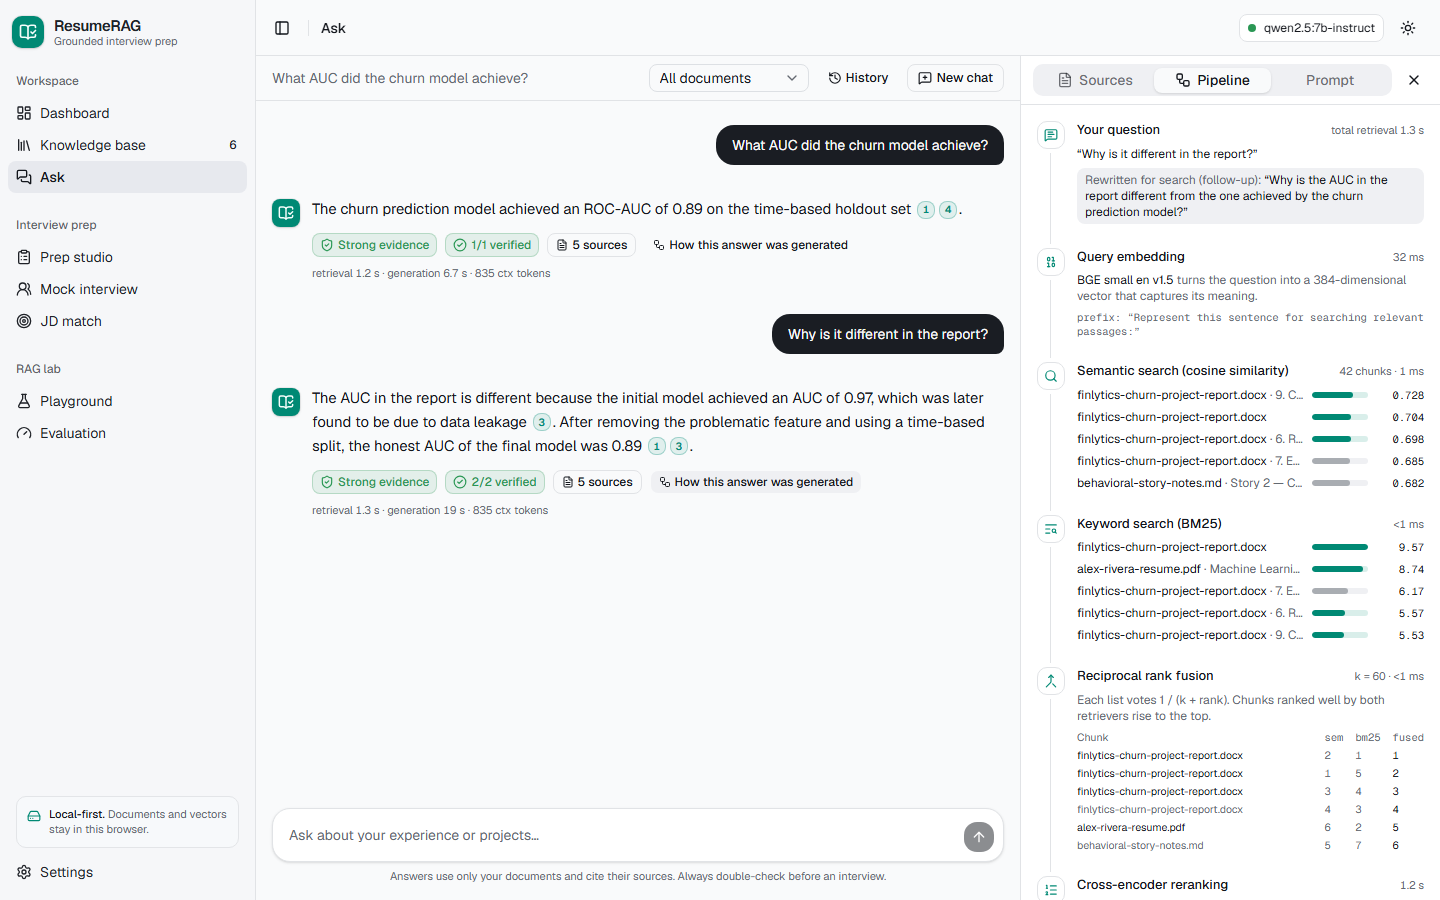
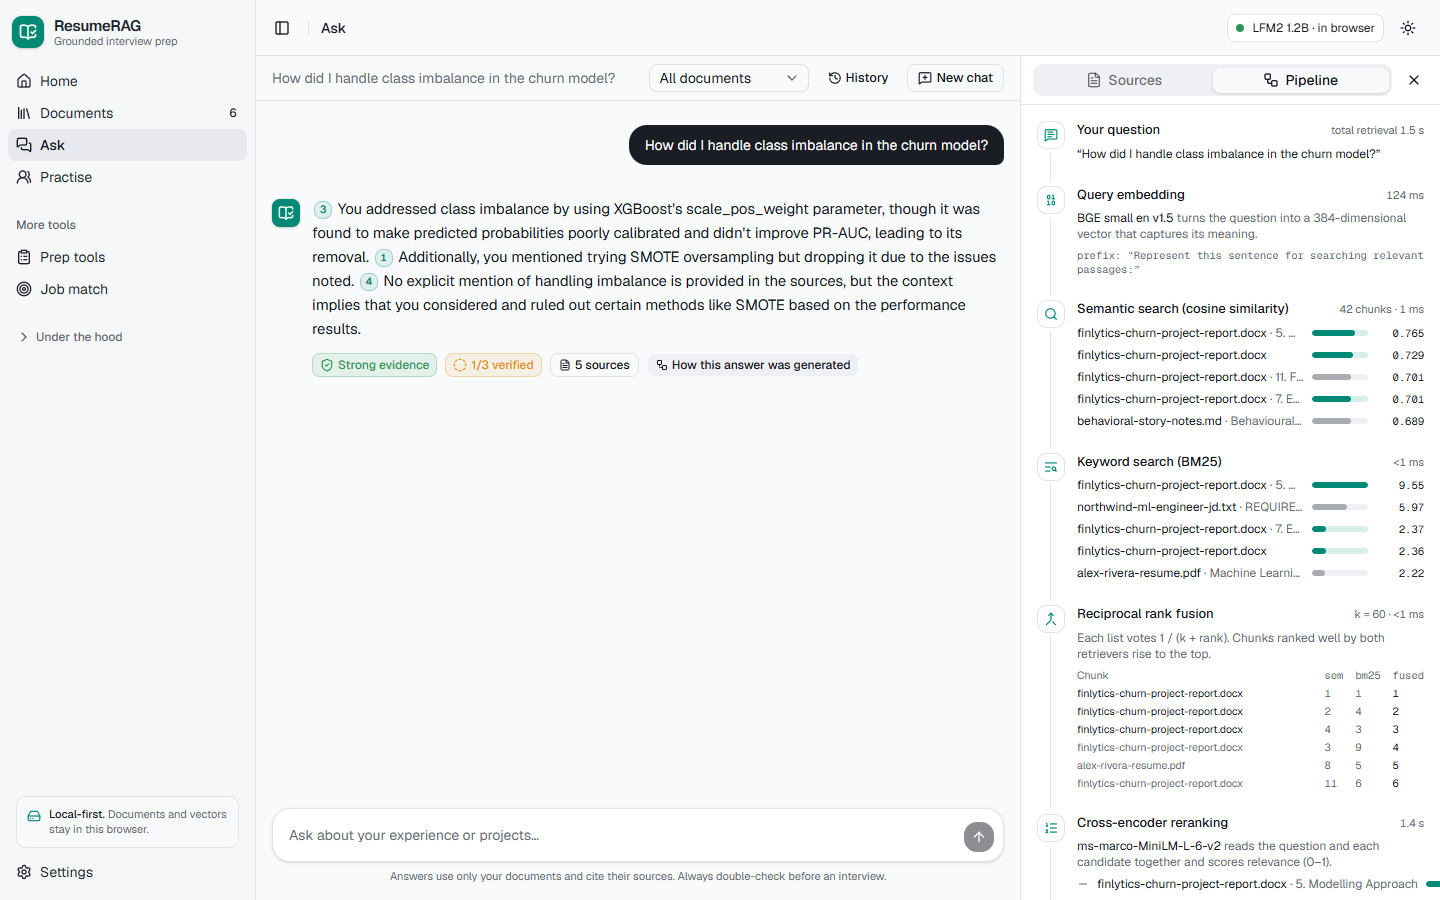
Say why a workflow fell back, and decode JSON greedily in the browser
A mock-interview question read "Template question (no language model
connected)" while the status badge said the in-browser model was
connected. The real cause was different: the model returned JSON the
schema rejected, so the workflow used its template. fallbackReason() now
distinguishes an unreachable model, unusable JSON and a failed request,
and the mock and question generators report that instead.

The cause is now less likely too: in-browser requests that ask for JSON
decode greedily regardless of temperature, since sampling is the main
source of broken structure in a 1.2B model.

diff --git a/src/lib/workflows/questions.ts b/src/lib/workflows/questions.ts
@@ -6,7 +6,7 @@ import type { AppSettings } from "@/lib/client/settings";
 import type { Difficulty, QuestionCategory } from "@/lib/db/records";
 import type { BuiltContext } from "@/lib/rag/generation/context";
 import { GROUNDING_RULES } from "@/lib/rag/generation/prompts";
-import { CANDIDATE_FILTER, gatherEvidence, runLlmJson, validSources } from "./common";
+import { CANDIDATE_FILTER, fallbackReason, gatherEvidence, runLlmJson, validSources } from "./common";
 
 export const CATEGORY_INFO: Record<QuestionCategory, { label: string; description: string; queries: string[] }> = {
   recruiter: {
@@ -112,7 +112,7 @@ Return JSON: {"questions":[{"question":"...","whyAsked":"...","sources":[1]}]}`,
   );
 
   if (!outcome.data) {
-    return { questions: fallbackQuestions(input, context), context, error: outcome.error };
+    return { questions: fallbackQuestions(input, context, fallbackReason(outcome.error)), context, error: outcome.error };
   }
   return {
     context,
@@ -129,6 +129,7 @@ Return JSON: {"questions":[{"question":"...","whyAsked":"...","sources":[1]}]}`,
 function fallbackQuestions(
   input: { category: QuestionCategory; difficulty: Difficulty; count: number },
   context: BuiltContext,
+  reason: string,
 ): GeneratedQuestion[] {
   const templates = [
     (h: string) => `Tell me about "${h}". What was your role?`,
@@ -140,7 +141,7 @@ function fallbackQuestions(
     const heading = s.result.chunk.headingPath.at(-1) ?? s.result.document.name;
     return {
       question: templates[i % templates.length](heading),
-      whyAsked: "Generated from a template because no language model is connected.",
+      whyAsked: `Generated from a template — ${reason}.`,
       sources: [s.n],
       category: input.category,
       difficulty: input.difficulty,

diff --git a/tests/unit/llm.test.ts b/tests/unit/llm.test.ts
@@ -14,6 +14,7 @@ import {
 } from "@/lib/llm/client";
 import { migrateSettings } from "@/lib/client/settings";
 import { createAsyncQueue } from "@/lib/llm/stream";
+import { fallbackReason } from "@/lib/workflows/common";
 import { isModelAllowed, modelAllowlist } from "@/lib/llm/model-policy";
 import { chatRequestSchema } from "@/lib/llm/schema";
 import { readNdjson, readSse, withStallTimeout } from "@/lib/llm/stream";
@@ -273,6 +274,18 @@ describe("automatic connection mode", () => {
     );
     await expect(resolveMode({ mode: "in-browser" })).resolves.toBe("in-browser");
     await expect(resolveMode({ mode: "browser-ollama" })).resolves.toBe("browser-ollama");
+  });
+});
+
+describe("fallback wording", () => {
+  it("distinguishes a missing model from a model that answered badly", () => {
+    expect(fallbackReason("No LLM provider is configured on the server (LLM_PROVIDER=none).")).toBe("no language model was reachable");
+    expect(fallbackReason("Cannot reach Ollama at http://localhost:11434.")).toBe("no language model was reachable");
+    expect(fallbackReason("Model output did not match the expected format (scores.evidence)")).toBe(
+      "the language model did not return usable JSON",
+    );
+    expect(fallbackReason("The language model request failed.")).toBe("the language model could not complete the request");
+    expect(fallbackReason(undefined)).toBe("generated without a language model");
   });
 });
 

diff --git a/src/lib/workflows/common.ts b/src/lib/workflows/common.ts
@@ -94,6 +94,20 @@ export async function runLlmJson<T extends z.ZodType>(
   }
 }
 
+/**
+ * Why a workflow fell back to its deterministic output, in words a user can act on. A missing
+ * model and a model that answered badly are different problems, and the UI should not claim the
+ * first when it hit the second.
+ */
+export function fallbackReason(error?: string): string {
+  if (!error) return "generated without a language model";
+  if (/no llm provider|not reachable|cannot reach|requires an access code|only runs in the browser/i.test(error)) {
+    return "no language model was reachable";
+  }
+  if (/expected format|no json|not valid|json/i.test(error)) return "the language model did not return usable JSON";
+  return "the language model could not complete the request";
+}
+
 /** Each document's title: its first top-level heading, or its parsed title. */
 export async function loadDocTitles(docIds: string[]): Promise<Record<string, string>> {
   const contents = await getDb().contents.bulkGet([...new Set(docIds)]);

diff --git a/src/lib/workflows/mock.ts b/src/lib/workflows/mock.ts
@@ -12,7 +12,7 @@ import type { Difficulty, MockTurn, QuestionCategory } from "@/lib/db/records";
 import { judgeSupport, lexicalSupport, splitAnswerSentences } from "@/lib/rag/generation/citations";
 import type { BuiltContext } from "@/lib/rag/generation/context";
 import { GROUNDING_RULES } from "@/lib/rag/generation/prompts";
-import { CANDIDATE_FILTER, gatherEvidence, runLlmJson, validSources } from "./common";
+import { CANDIDATE_FILTER, fallbackReason, gatherEvidence, runLlmJson, validSources } from "./common";
 
 export type MockFocus = "profile" | "technical" | "behavioral" | "project";
 
@@ -117,7 +117,7 @@ Ask the next interview question. It must be specific to the candidate's document
       category: CATEGORY_BY_FOCUS[config.focus],
       evidenceChunkIds: source ? [source.result.chunk.id] : [],
     },
-    whyAsked: "Template question (no language model connected).",
+    whyAsked: `Template question — ${fallbackReason(outcome.error)}.`,
     context,
     error: outcome.error,
   };

diff --git a/src/workers/llm.worker.ts b/src/workers/llm.worker.ts
@@ -25,6 +25,8 @@ export interface BrowserGenerateRequest {
   messages: ChatMessage[];
   maxTokens: number;
   temperature: number;
+  /** Structured output: decode greedily, whatever the temperature. */
+  json?: boolean;
 }
 
 export interface BrowserGenerateStats {
@@ -158,8 +160,9 @@ export class BrowserLlmEngine {
       });
       const promptTokens = inputs.input_ids.dims[1];
       const streamer = new TextStreamer(tokenizer as never, { skip_prompt: true, skip_special_tokens: true, callback_function: onText });
-      // Small models follow instructions best greedily; sample only when variety is requested.
-      const sample = request.temperature >= 0.4;
+      // Small models follow instructions best greedily; sample only when variety is wanted and
+      // the shape of the reply does not matter. Sampling is the main cause of broken JSON here.
+      const sample = !request.json && request.temperature >= 0.4;
 
       this.current = requestId;
       this.stopping.reset();

diff --git a/src/lib/llm/in-browser.ts b/src/lib/llm/in-browser.ts
@@ -81,7 +81,7 @@ export async function* streamInBrowser(id: string, messages: ChatMessage[], opti
     engine.generate(
       requestId,
       id,
-      { messages, maxTokens: options.maxTokens ?? 800, temperature: options.temperature ?? 0.2 },
+      { messages, maxTokens: options.maxTokens ?? 800, temperature: options.temperature ?? 0.2, json: Boolean(options.json) },
       Comlink.proxy((text: string) => queue.push(text)),
     ),
     crashed,

diff --git a/README.md b/README.md
@@ -149,7 +149,7 @@ Each stage earns its place: fusion raises recall over semantic search, reranking
 | Parsing        | **unpdf** (pdf.js) with layout reconstruction, **mammoth** (DOCX), custom Markdown/TXT                 | Page numbers and heading structure for citations                                                                    |
 | Generation     | **LFM2 1.2B in the browser** (default on the deployed site), Ollama, OpenAI-compatible or Hugging Face | Free, private and keyless out of the box ([how it was chosen](docs/DESIGN_DECISIONS.md#13a-which-in-browser-model)) |
 | Validation     | **zod** (API requests, LLM JSON outputs, env)                                                          | Model output is untrusted input                                                                                     |
-| Testing        | Vitest (117 unit tests), Playwright (E2E smoke), offline eval script                                   |                                                                                                                     |
+| Testing        | Vitest (118 unit tests), Playwright (E2E smoke), offline eval script                                   |                                                                                                                     |
 
 ## Project structure
 
@@ -207,7 +207,7 @@ Then open the app, click **Try the demo workspace**, and ask _"How did I handle 
 | Command                                                 | What it does                                                                                                                                                                                  |
 | ------------------------------------------------------- | --------------------------------------------------------------------------------------------------------------------------------------------------------------------------------------------- |
 | `npm run dev` / `npm run build` / `npm start`           | Develop, build, serve                                                                                                                                                                         |
-| `npm test`                                              | 117 unit tests (chunking, parsing, BM25, fusion, query expansion, retrieval, confidence, citations and verification, analysis rules, JD scoring, LLM providers and streaming, API validation) |
+| `npm test`                                              | 118 unit tests (chunking, parsing, BM25, fusion, query expansion, retrieval, confidence, citations and verification, analysis rules, JD scoring, LLM providers and streaming, API validation) |
 | `npm run test:e2e`                                      | Playwright smoke test (run `npx playwright install chromium` once)                                                                                                                            |
 | `npm run eval`                                          | Offline retrieval evaluation (`-- --grid` adds a chunk-size sweep, `-- --inspect --blocks` prints how each demo document was parsed and chunked)                                              |
 | `npm run typecheck` / `npm run lint` / `npm run format` | Quality checks                                                                                                                                                                                |

diff --git a/docs/PROJECT_OVERVIEW.md b/docs/PROJECT_OVERVIEW.md
@@ -255,7 +255,7 @@ most RAG demos never show: BM25 alone happily answers questions about jobs you n
 | Size            | ~18.6k lines of TypeScript/TSX; the framework-independent RAG core is ~7.4k of that                                                                                                                                                                                                               |
 | Structure       | `src/lib/rag` (pure pipeline: parsing, chunking, embeddings, retrieval, reranking, generation, analysis, evaluation) · `src/lib/workflows` (feature logic) · `src/lib/llm` (providers plus the in-browser model) · `src/workers` (RAG and LLM workers) · `src/app` (19 routes) · `src/components` |
 | Portability     | The RAG core depends on neither React, Next.js nor IndexedDB, so the identical code runs in the browser worker, in Node (`npm run eval`) and in unit tests                                                                                                                                        |
-| Tests           | 117 unit tests (chunking, parsing, BM25, fusion, expansion, retrieval, confidence, citation verification, analysis rules, JD scoring, LLM providers, API validation) plus a Playwright end-to-end test that ingests the demo set, asks a question and asserts both a citation and a refusal       |
+| Tests           | 118 unit tests (chunking, parsing, BM25, fusion, expansion, retrieval, confidence, citation verification, analysis rules, JD scoring, LLM providers, API validation) plus a Playwright end-to-end test that ingests the demo set, asks a question and asserts both a citation and a refusal       |
 | Quality gates   | `npm run check` = typecheck + lint + tests + build; Prettier; GitHub Actions CI runs all four                                                                                                                                                                                                     |
 | Reproducibility | `npm run demo:generate` builds the sample PDFs/DOCX; `npm run eval` regenerates the benchmark the app displays                                                                                                                                                                                    |
 

diff --git a/docs/INTERVIEW_CHEATSHEET.md b/docs/INTERVIEW_CHEATSHEET.md
@@ -33,7 +33,7 @@ Query: rewrite follow-up → embed → dense top-20 + BM25 top-20 (interview-awa
 - Eval (30 Qs, 4 unanswerable): semantic **78.8%** recall / MRR **0.71** → hybrid **88.5%** / **0.80** → + rerank **100%** / **0.894**, nDCG **0.92**, answer/refuse **96.7%**, all unanswerable refused.
 - Retrieval ~**1.3 s** in the browser (rerank dominates; **0.37 s** in Node). Was ~4.5 s until COOP/COEP headers enabled multi-threaded WASM. Generation ~**6 tok/s** on a CPU (qwen 7B).
 - Citation verification: **14/15** labelled pairs judged correctly.
-- **117** unit tests; Playwright E2E; `npm run eval`.
+- **118** unit tests; Playwright E2E; `npm run eval`.
 
 ## Terminology (one line each)
 
